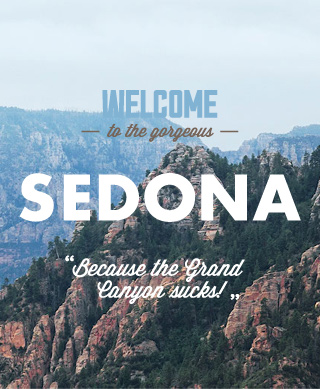
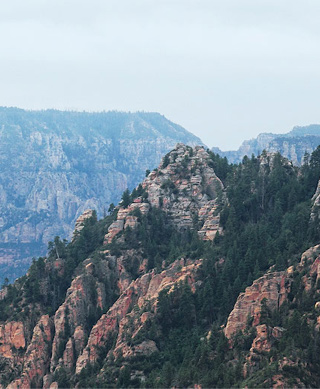
Исправление фонового рисунка на главной странице

diff --git a/index.html b/index.html
@@ -34,12 +34,12 @@
 </header>
 
 <main class="page-main">
-  <img class="page-main__background-image" src="img/background-mobile.jpg"
+  <h1 class="page-main__title visible-hidden">Sedona</h1>
+  <img class="page-main__background-image" src="img/background-mobile-index.jpg"
        width="320" height="389" alt="Изображение горы в Седоне">
-  <h1 class="page-main__title">Седона — небольшой городок в аризоне, заслуживающий большего!</h1>
   <section class="reason">
-    <h2 class="visually-hidden">Причины превосходства Седоны</h2>
-    <p class="reason__intro">Рассмотрим 5 причин, по которым Седона круче чем гранд каньон!</p>
+    <h2 class="reason__title">Седона — небольшой городок в аризоне, заслуживающий большего!</h2>
+    <p class="reason__description">Рассмотрим 5 причин, по которым Седона круче чем гранд каньон!</p>
     <ul class="reason__list">
       <li class="reason__item">
         <h3 class="reason__title">Настоящий городок</h3>
@@ -96,7 +96,7 @@
     <h2 class="search-hotels__title">Заинтересовались?</h2>
     <p class="search-hotels__description">Укажите предполагаемые даты поездки, и мы покажем вам лучшие предложения
       гостиниц в седоне</p>
-    <button class="search-hotels__button" type="button">Найти гостиницу</button>
+    <button class="search-hotels__button button" type="button">Найти гостиницу</button>
     <img class="search-hotels__map" src="img/map-mobile.jpg"
          width="320" height="350" alt="Карта Аризоны">
   </section>
